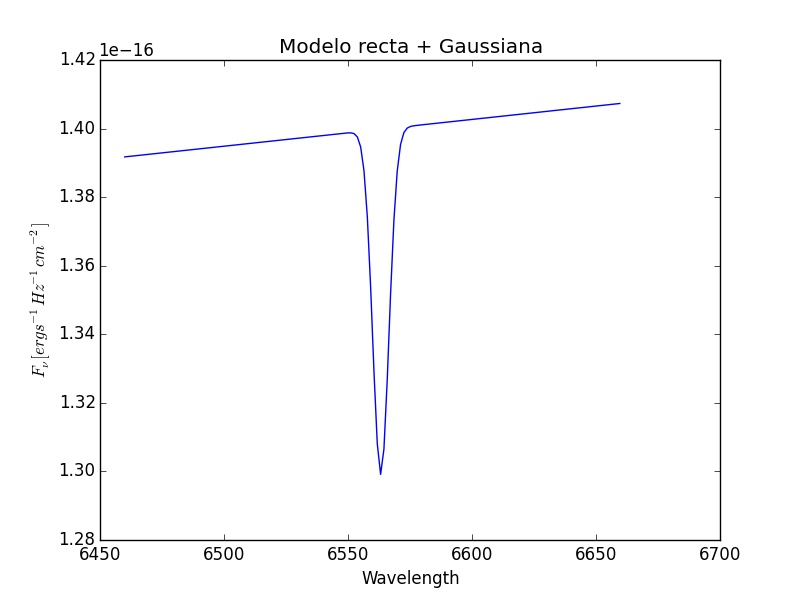
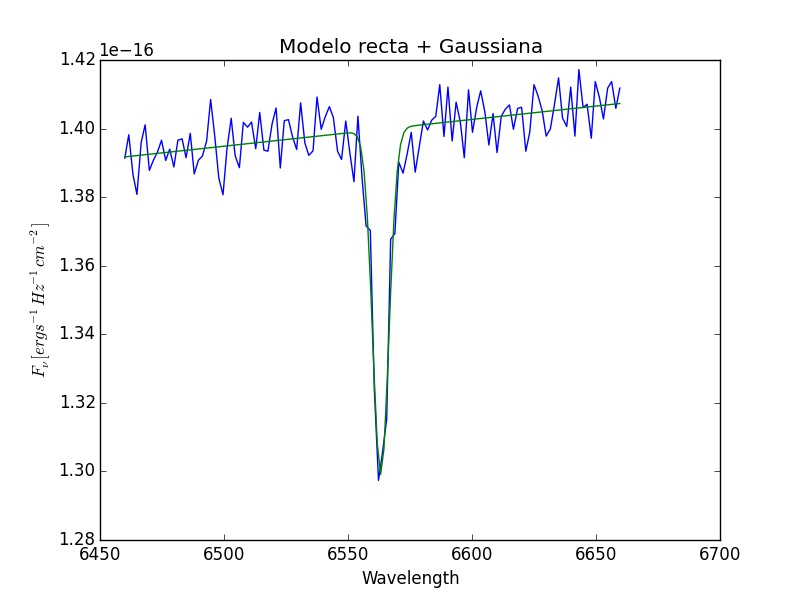
grafico datos y modelo en un plot

Changed region(s): [[0.1562, 0.12, 0.7812, 0.6], [0.4688, 0.63, 0.5, 0.81]]

diff --git a/forma_lorentz.py b/forma_lorentz.py
@@ -16,10 +16,11 @@ def importar_datos(txt):
     return data[:, 0], data[:, 1]
 
 
-def mostrar_datos(data, xlabel, ylabel, title, ylim):
+def mostrar_datos(w, f, data, xlabel, ylabel, title, ylim):
     ''' función para graficar los datos'''
     ax, fig = plt.subplots()
-    plt.plot(data[0], data[1])
+    plt.plot(w, f, label="datos originales")
+    plt.plot(data[0], data[1], label="modelo")
     fig.set_title(title)
     fig.set_xlabel(xlabel)
     fig.set_ylabel(ylabel)
@@ -50,24 +51,15 @@ def crear_datos(param_opt):
     return x, y
 
 
-def test_ks(fnu, funcion_1):
-    '''Funcion que realiza en test de kolmogorov-smirnov'''
-    return stats.kstest(fnu, funcion_1)
-
-
 # main
 wlength, fnu = importar_datos("espectro.dat")
-mostrar_datos([wlength, fnu], "Wavelength",
-              "$F_\\nu [erg s^{-1} Hz^{-1} cm^{-2}]$",
-              "espectro", [1.28e-16, 1.42e-16])
 param_opt, pcov = curve_fit(funcion_1, wlength, fnu,
                             p0=[0.1e-16, 6550, 10, 0.04e-16/200, 1])
 x_modelo, y_modelo = crear_datos(param_opt)
 print("Parametros optimos perfil de Lorentz: Amplitud= {}, promedio{}, sigma{}".format(param_opt[0], param_opt[1], param_opt[2]))
 print("Parametros optimos recta: Pendiente={}, coef de posicion={}".format(param_opt[3],param_opt[4]))
-mostrar_datos([x_modelo, y_modelo],  "Wavelength",
+mostrar_datos(wlength, fnu, [x_modelo, y_modelo],  "Wavelength",
               "$F_\\nu [erg s^{-1} Hz^{-1} cm^{-2}]$",
               "modelo Perfil Lorentz", [1.28e-16, 1.42e-16])
 
 plt.show()
-D, p = test_ks(fnu, funcion_1)

diff --git a/forma_gauss.py b/forma_gauss.py
@@ -16,10 +16,11 @@ def importar_datos(txt):
     return data[:, 0], data[:, 1]
 
 
-def mostrar_datos(data, xlabel, ylabel, title, ylim):
+def mostrar_datos(w, f, data, xlabel, ylabel, title, ylim):
     ''' función para graficar los datos'''
     ax, fig = plt.subplots()
-    plt.plot(data[0], data[1])
+    plt.plot(w, f, label="datos origininales")
+    plt.plot(data[0], data[1], label="modelo")
     fig.set_title(title)
     fig.set_xlabel(xlabel)
     fig.set_ylabel(ylabel)
@@ -50,23 +51,14 @@ def crear_datos(param_opt):
     return x, y
 
 
-def test_ks(fnu, funcion_1):
-    '''Funcion que realiza en test de kolmogorov-smirnov'''
-    return stats.kstest(fnu, funcion_1)
-
-
 # main
 wlength, fnu = importar_datos("espectro.dat")
-mostrar_datos([wlength, fnu], "Wavelength",
-              "$F_\\nu [erg s^{-1} Hz^{-1} cm^{-2}]$",
-              "espectro", [1.28e-16, 1.42e-16])
 param_opt, pcov = curve_fit(funcion_1, wlength, fnu,
                             p0=[0.1e-16, 6550, 10, 0.04e-16/200, 1])
 x_modelo, y_modelo = crear_datos(param_opt)
 print("Parametros optimos gauss: Amplitud= {}, promedio{}, sigma{}".format(param_opt[0], param_opt[1], param_opt[2]))
 print("Parametros optimos recta: Pendiente={}, coef de posicion={}".format(param_opt[3],param_opt[4]))
-mostrar_datos([x_modelo, y_modelo],  "Wavelength",
+mostrar_datos(wlength, fnu, [x_modelo, y_modelo],  "Wavelength",
               "$F_\\nu [erg s^{-1} Hz^{-1} cm^{-2}]$",
               "Modelo recta + Gaussiana", [1.28e-16, 1.42e-16])
 plt.show()
-D, p = test_ks(fnu, funcion_1)
